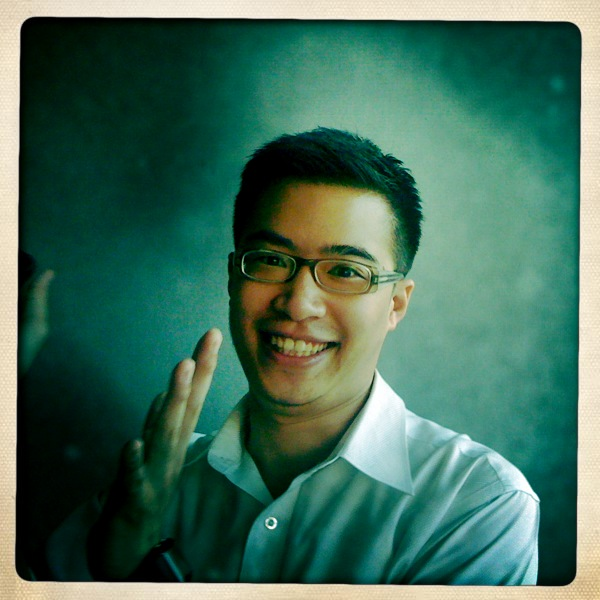
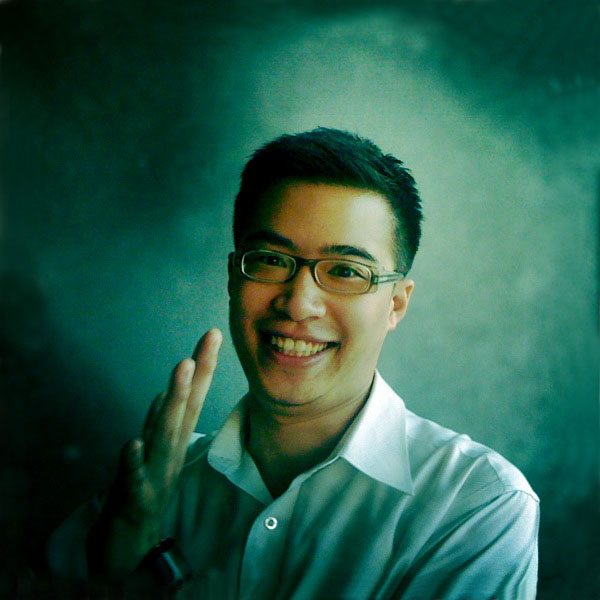
更換個人頭像 增加作品說明

Changed region(s): [[0.0, 0.0, 1.0, 1.0]]

diff --git a/index.html b/index.html
@@ -190,21 +190,23 @@
             						<div class="card__content">
             							<i class="card__btn-close fa fa-times"></i>
             							<div class="card__caption">
-            								<h2 class="card__title">Tristan and Isolde</h2>
-            								<p class="card__subtitle">A modern day love story</p>
+            								<h2 class="card__title">極簡風蕃茄鐘網頁應用程式</h2>
+            								<p class="card__subtitle">將介面去蕪存菁的過程</p>
             							</div>
             							<div class="card__copy">
             								<div class="meta">
-            									<img class="meta__avatar" src="img/authors/1.png" alt="author01" />
-            									<span class="meta__author">Gerry Sutherland</span>
-            									<span class="meta__date">06/19/2015</span>
+            									<img class="meta__avatar" src="img/avatar.jpg" alt="author01" />
+            									<span class="meta__author">Gary Wang</span>
+            									<span class="meta__date">05/25/2016</span>
             								</div>
-            								<p>Business model canvas bootstrapping deployment startup. In A/B testing pivot niche market alpha conversion startup down monetization partnership business-to-consumer success for investor mass market business-to-business.</p>
-            								<p>Release creative social proof influencer iPad crowdsource gamification learning curve network effects monetization. Gamification business plan mass market www.discoverartisans.com direct mailing ecosystem seed round sales long tail vesting period.</p>
-            								<p>Product management ramen bootstrapping seed round venture holy grail technology backing partner network entrepreneur beta marketing value proposition. Android stealth conversion scrum project network effects. Creative alpha long tail conversion stealth growth hacking iteration investor A/B testing prototype customer. Startup www.discoverartisans.com direct mailing launch party partnership market ramen metrics focus value proposition.</p>
-            								<p>Stock infrastructure seed round sales paradigm shift technology user experience focus gamification. Partnership metrics business plan stealth business-to-business. Deployment graphical user interface monetization. Twitter incubator scrum project entrepreneur branding burn rate ramen backing paradigm shift virality crowdsource.</p>
-            								<p>Social proof MVP ecosystem. Ramen launch party pitch deployment stealth. Vesting period MVP equity. Focus creative partnership founders iteration agile development infographic.</p>
-            								<p>Low hanging fruit burn rate innovator user experience niche market A/B testing creative launch party product management release. Www.discoverartisans.com influencer business model canvas user experience gamification paradigm shift startup research &amp; development iPad agile development. Strategy incubator infographic success marketing buzz A/B testing responsive web design. Traction research &amp; development pitch seed money venture niche market accelerator network effects.</p>
+            								<p>為了要提昇自己的工作效率，我開始使用蕃茄鐘工作法，但是關鍵的計時工具始終沒有找到順手的，所以就想自己動手作一個。</p>
+            								<p>由於大多數的蕃茄鐘計時工具，普遍都有計時以外的功能，雖然立意良好，但是對我來說，待辦事項已經有習慣的工具，我只需要計時，多餘的功能反而造成操作上的障礙，或者成為一種分心的理由，無法讓我聚焦在現在的任務。另外，個人習慣在多螢幕環境下工作，因此，會有多出的螢幕空間可以運用。</p>
+                                            <p>在簡單分析過自己的需求之後，決定我的蕃茄鐘計時器，要達到以下的目標：</p>
+                                            <ul>
+                                                <li>介面要盡可能簡化，除去造成干擾的因素</li>
+                                                <li>設定時間的方法要盡可能簡單，最好可以用按鍵完成</li>
+                                            </ul>
+                                            <p>為了達到介面簡化的目的，我開始思考各個功能存在的必要性，最後只留下顯示剩餘時間的介面，並且為了不要讓自己不時的去注意還有多少時間，而無法專心，我特地將時間的顯示放在最不容易注意到的畫面左下角。至於設定時間的方法，無論那一種方案，都需要額外的操作介面，而如果想要有清爽簡單的畫面，則需要在設定完成之後隱藏起來，無法，最後想到借用既有的網址列，來作時間的設定，既可以達到無介面，也保留彈性。</p>
             							</div>
             						</div>
             					</div>
@@ -223,13 +225,13 @@
             						<div class="card__content">
             							<i class="card__btn-close fa fa-times"></i>
             							<div class="card__caption">
-            								<h2 class="card__title">About Helen</h2>
-            								<p class="card__subtitle">A story about a woman</p>
+            								<h2 class="card__title">機械表造型時間顯示網頁</h2>
+            								<p class="card__subtitle">經典復刻</p>
             							</div>
             							<div class="card__copy">
             								<div class="meta">
-            									<img class="meta__avatar" src="img/authors/2.png" alt="author02" />
-            									<span class="meta__author">Frank Posterius</span>
+            									<img class="meta__avatar" src="img/avatar.jpg" alt="author02" />
+            									<span class="meta__author">Gary Wang</span>
             									<span class="meta__date">06/16/2015</span>
             								</div>
             								<p>Business model canvas bootstrapping deployment startup. In A/B testing pivot niche market alpha conversion startup down monetization partnership business-to-consumer success for investor mass market business-to-business.</p>
@@ -257,7 +259,6 @@
 <script src="js/vendor/cash.min.js"></script>
 <script src="js/Card-circle.js"></script>
 <script src="js/cardEffect.js"></script>
-
     <!-- Google Analytics: change UA-XXXXX-X to be your site's ID. -->
     <script >
     (function (b, o, i, l, e, r) {

diff --git a/css/main.css b/css/main.css
@@ -178,6 +178,8 @@ a {color:#009ABB;text-decoration: none;display: inline-block;border-bottom: dott
 }
 .cntl-state p {text-align: justify;text-justify: inter-ideograph;}
 
+.meta__avatar {width: 40px}
+
 /* ==========================================================================
    Helper classes
    ========================================================================== */
